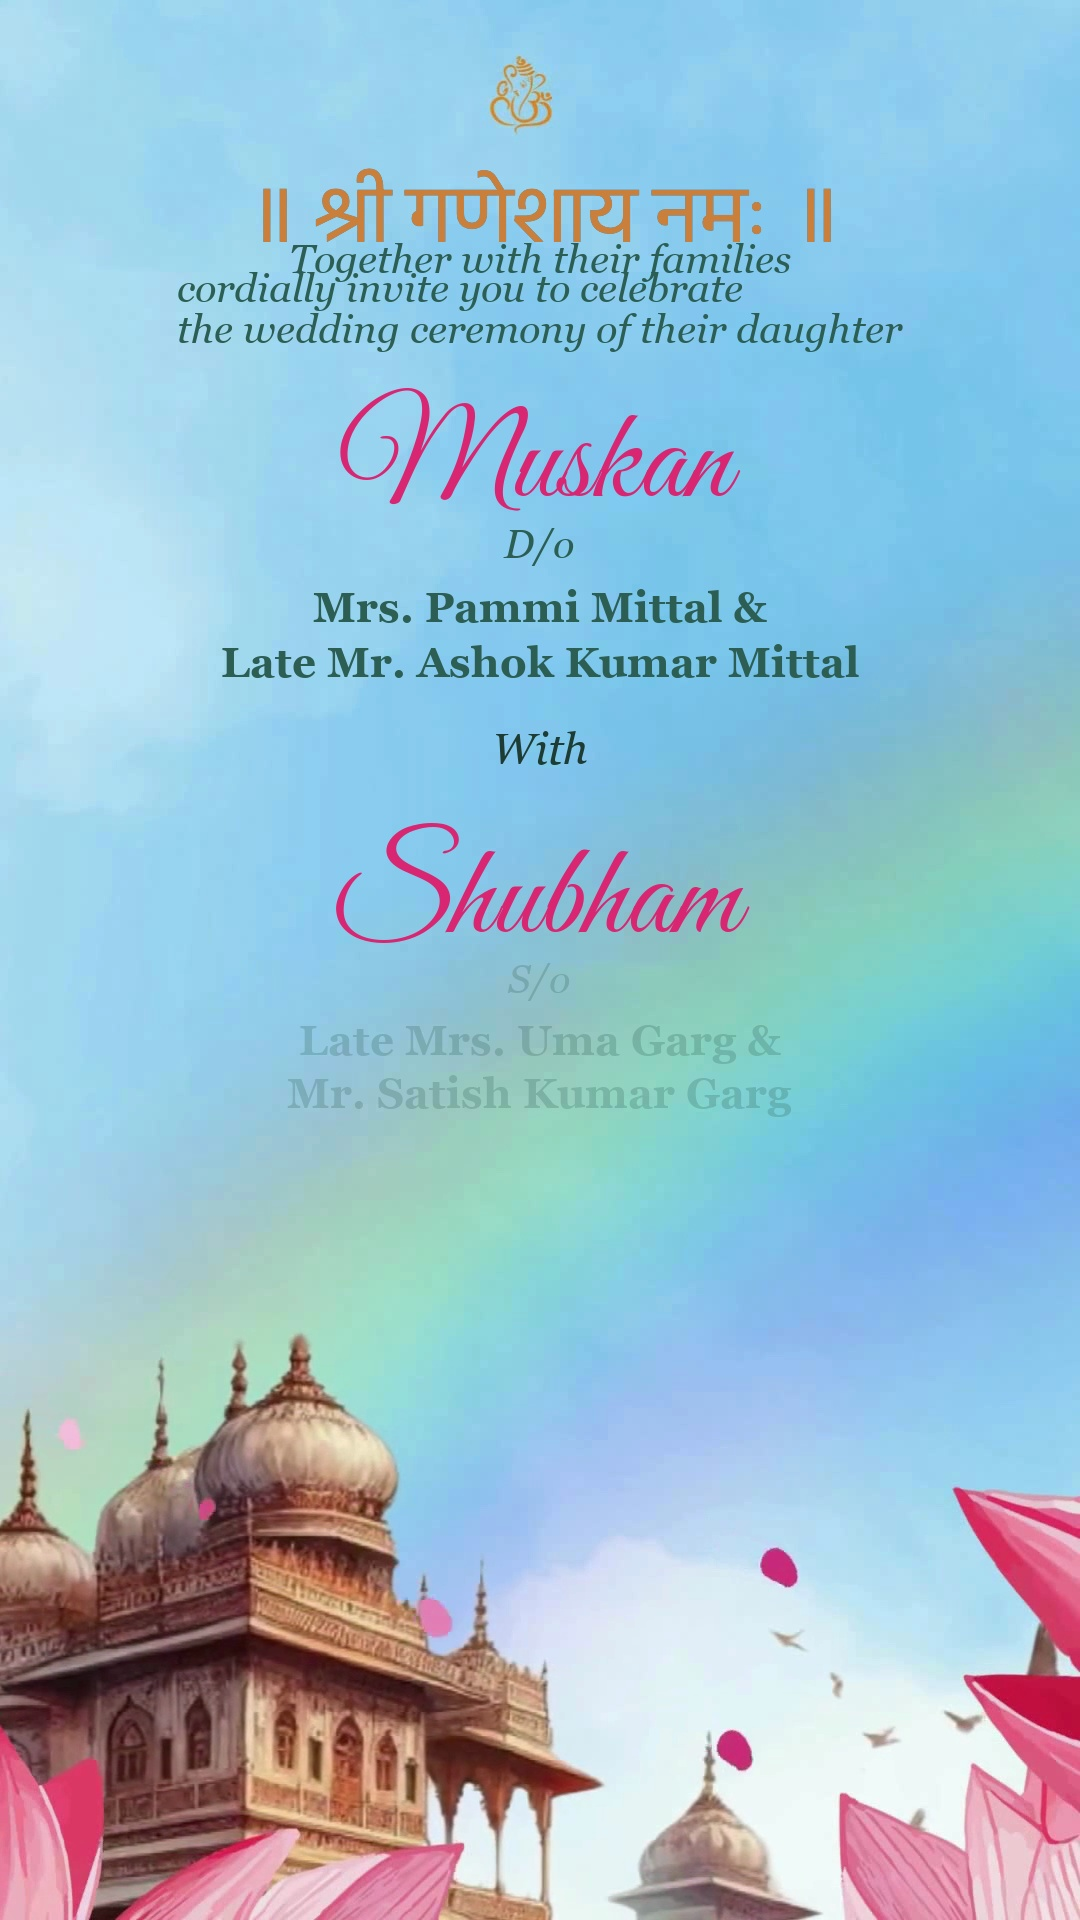
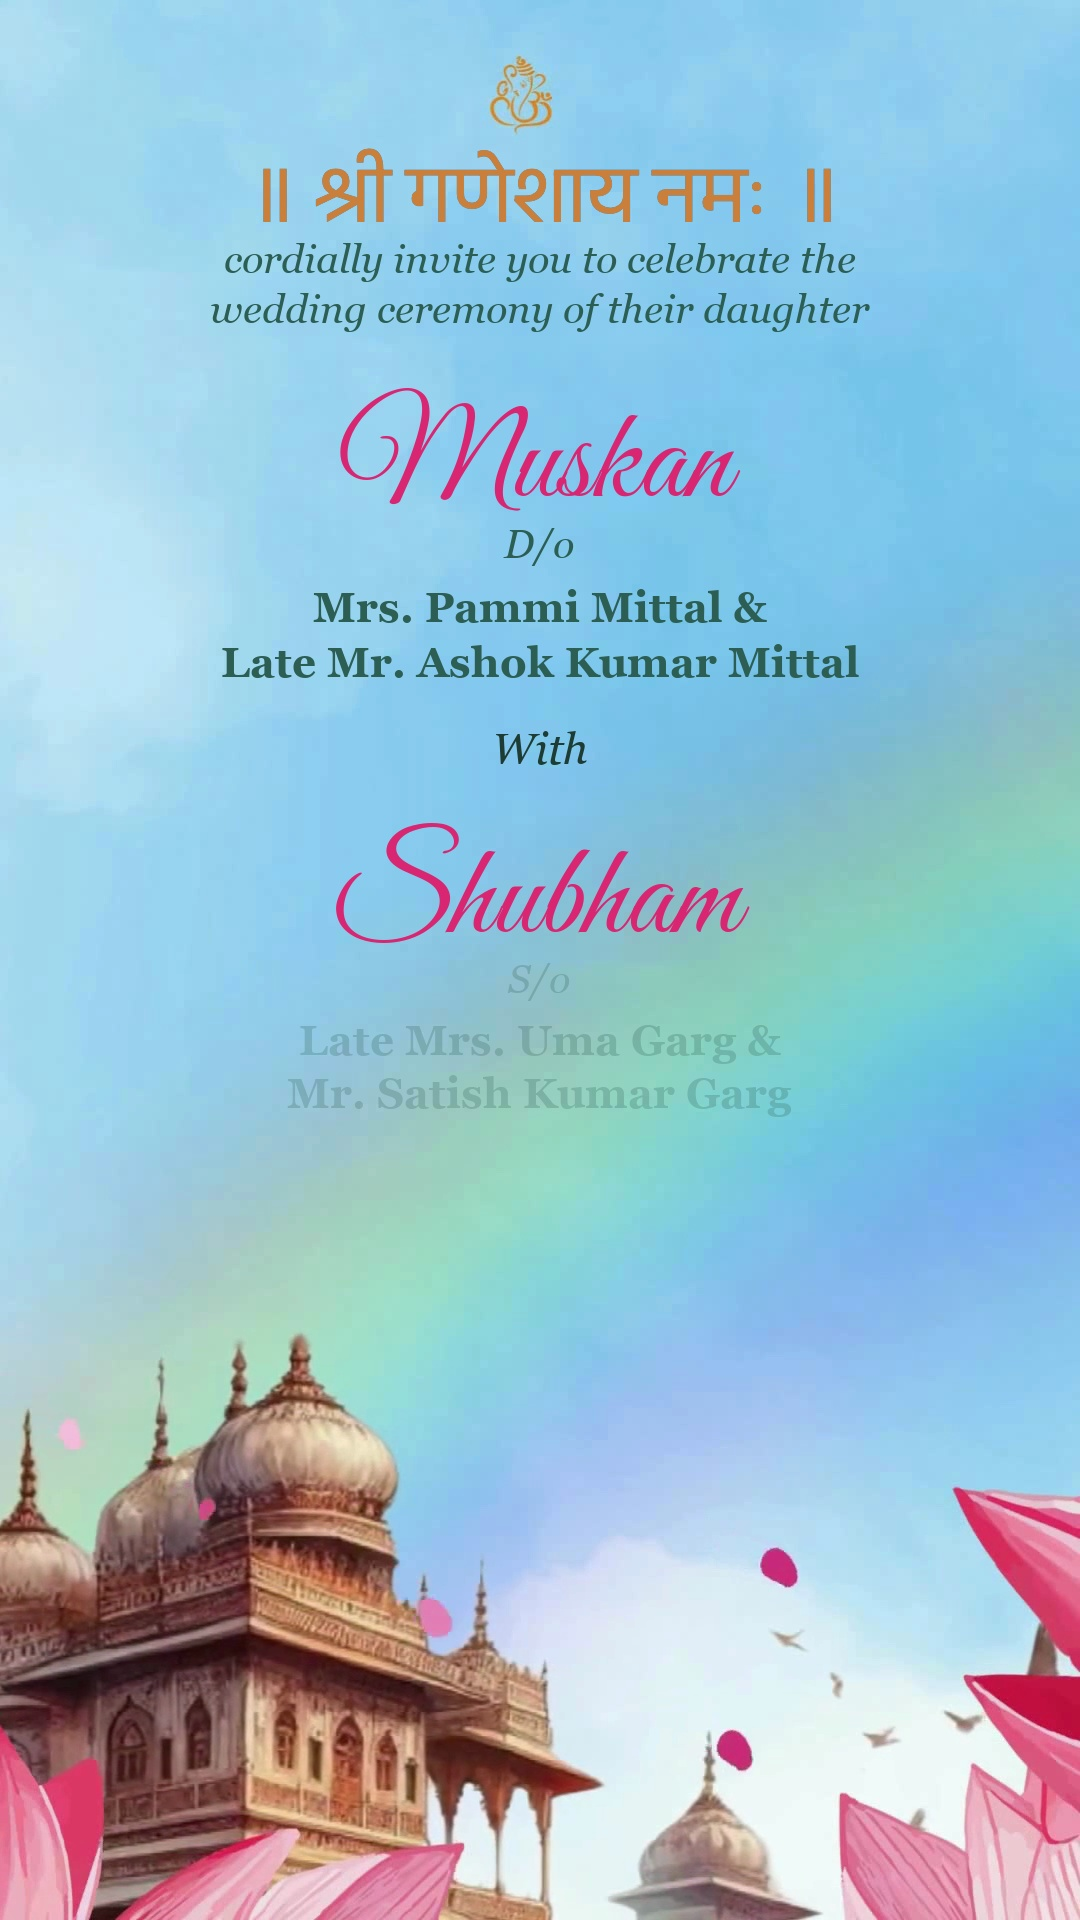
Fix Scene 4 clutter, multiline centering, and absent field handling in template mapping

Changed region(s): [[0.1528, 0.0625, 0.825, 0.1875]]

diff --git a/render_video.py b/render_video.py
@@ -43,25 +43,59 @@ def load_fonts():
         'georgia_bold_52': ImageFont.truetype(os.path.join(FONTS_DIR, 'Georgia Bold.ttf'), 52),
     }
 
-def draw_centered(draw, text, cy, font, fill_rgba, stroke_rgba=None, stroke_width=0, max_width=940):
+def draw_centered(draw, text, cy, font, fill_rgba, stroke_rgba=None, stroke_width=0, max_width=940, line_spacing=None):
     if not text:
         return
-    bbox = draw.textbbox((0, 0), text, font=font)
-    w = bbox[2] - bbox[0]
-    h = bbox[3] - bbox[1]
-    if max_width and w > max_width:
-        scale = max_width / w
-        new_size = max(18, int(font.size * scale))
-        try:
-            font = ImageFont.truetype(font.path, new_size)
-            bbox = draw.textbbox((0, 0), text, font=font)
-            w = bbox[2] - bbox[0]
-            h = bbox[3] - bbox[1]
-        except Exception:
-            pass
-    x = (1080 - w) // 2
-    y = cy - h // 2
-    draw.text((x, y), text, font=font, fill=fill_rgba, stroke_fill=stroke_rgba, stroke_width=stroke_width)
+    lines = [l.strip() for l in str(text).split('\n') if l.strip()]
+    if not lines:
+        return
+
+    cur_font = font
+    if len(lines) == 1:
+        line = lines[0]
+        bbox = draw.textbbox((0, 0), line, font=cur_font)
+        w = bbox[2] - bbox[0]
+        h = bbox[3] - bbox[1]
+        if max_width and w > max_width:
+            scale = max_width / w
+            new_size = max(18, int(cur_font.size * scale))
+            try:
+                cur_font = ImageFont.truetype(cur_font.path, new_size)
+                bbox = draw.textbbox((0, 0), line, font=cur_font)
+                w = bbox[2] - bbox[0]
+                h = bbox[3] - bbox[1]
+            except Exception:
+                pass
+        x = (1080 - w) // 2
+        y = cy - h // 2
+        draw.text((x, y), line, font=cur_font, fill=fill_rgba, stroke_fill=stroke_rgba, stroke_width=stroke_width)
+        return
+
+    # Multiline handling:
+    if max_width:
+        max_line_w = 0
+        for line in lines:
+            bb = draw.textbbox((0, 0), line, font=cur_font)
+            max_line_w = max(max_line_w, bb[2] - bb[0])
+        if max_line_w > max_width:
+            scale = max_width / max_line_w
+            new_size = max(18, int(cur_font.size * scale))
+            try:
+                cur_font = ImageFont.truetype(cur_font.path, new_size)
+            except Exception:
+                pass
+
+    step = line_spacing if line_spacing is not None else int(cur_font.size * 1.25)
+    total_h = (len(lines) - 1) * step
+    start_y = cy - total_h // 2
+
+    for i, line in enumerate(lines):
+        bb = draw.textbbox((0, 0), line, font=cur_font)
+        lw = bb[2] - bb[0]
+        lh = bb[3] - bb[1]
+        lx = (1080 - lw) // 2
+        ly = start_y + i * step - lh // 2
+        draw.text((lx, ly), line, font=cur_font, fill=fill_rgba, stroke_fill=stroke_rgba, stroke_width=stroke_width)
 
 def draw_ornament_divider(draw, cy, color_rgba):
     # Elegant vector divider with diamonds and lines
@@ -115,11 +149,24 @@ def render_frame_text(base_bgr, frame_idx, config, fonts, shloka_img=None):
             r, g, b, a = sh_alpha.split()
             a = a.point(lambda p: int(p * a1 / 255.0))
             sh_alpha.putalpha(a)
-            overlay.paste(sh_alpha, ((1080 - sw) // 2, 160), sh_alpha)
+            overlay.paste(sh_alpha, ((1080 - sw) // 2, 140), sh_alpha)
         else:
-            draw_centered(draw, c4.get('shloka', '॥ श्री गणेशाय नमः ॥'), 180, fonts['rozha_42'], (214, 123, 39, a1))
-        draw_centered(draw, c4.get('header_line1', ''), 255, fonts['georgia_italic_40'], (44, 94, 84, a1))
-        draw_centered(draw, c4.get('header_line2', ''), 305, fonts['georgia_italic_40'], (44, 94, 84, a1), max_width=960)
+            draw_centered(draw, c4.get('shloka', '॥ श्री गणेशाय नमः ॥'), 160, fonts['rozha_42'], (214, 123, 39, a1))
+
+        h1 = (c4.get('header_line1') or '').strip()
+        h2 = (c4.get('header_line2') or '').strip()
+        if h1 and h2:
+            h2_lines = [l for l in h2.split('\n') if l.strip()]
+            if len(h2_lines) > 1:
+                draw_centered(draw, h1, 240, fonts['georgia_italic_40'], (44, 94, 84, a1), max_width=960)
+                draw_centered(draw, h2, 315, fonts['georgia_italic_40'], (44, 94, 84, a1), max_width=960)
+            else:
+                draw_centered(draw, h1, 255, fonts['georgia_italic_40'], (44, 94, 84, a1), max_width=960)
+                draw_centered(draw, h2, 305, fonts['georgia_italic_40'], (44, 94, 84, a1), max_width=960)
+        elif h1:
+            draw_centered(draw, h1, 275, fonts['georgia_italic_40'], (44, 94, 84, a1), max_width=960)
+        elif h2:
+            draw_centered(draw, h2, 280, fonts['georgia_italic_40'], (44, 94, 84, a1), max_width=960)
         
         has_parents = (
             c4.get('bride_parents_line1') or c4.get('groom_parents_line1')
@@ -443,89 +490,91 @@ def template_to_wedding_config(template_data):
         for f in sc.get('fields', []):
             field_map[f['id']] = f.get('value', '')
 
-    if 's2_initials' in field_map:
-        cfg.setdefault('scene_2_monogram', {})['initials'] = field_map['s2_initials']
+    seen_scene_ids = {sc.get('scene_id') for sc in template_data.get('scenes', [])}
 
-    if 's3_names' in field_map:
+    if 'scene_2' in seen_scene_ids or 's2_initials' in field_map:
+        cfg.setdefault('scene_2_monogram', {})['initials'] = field_map.get('s2_initials', '')
+
+    if 'scene_3' in seen_scene_ids or 's3_names' in field_map:
         s3 = cfg.setdefault('scene_3_announcement', {})
-        s3['monogram'] = field_map.get('s3_monogram', s3.get('monogram', 'SM'))
-        s3['couple_names'] = field_map['s3_names']
-        s3['subtext'] = field_map.get('s3_subtext', s3.get('subtext', 'are getting married on ..'))
-        s3['date'] = field_map.get('s3_date', s3.get('date', '21st September 2026'))
+        s3['monogram'] = field_map.get('s3_monogram', '')
+        s3['couple_names'] = field_map.get('s3_names', '')
+        s3['subtext'] = field_map.get('s3_subtext', '')
+        s3['date'] = field_map.get('s3_date', '')
 
-    if 's4_bride' in field_map or 's4_groom' in field_map:
+    if 'scene_4' in seen_scene_ids or 's4_bride' in field_map or 's4_groom' in field_map or 's4_header2' in field_map:
         s4 = cfg.setdefault('scene_4_invitation', {})
-        if 's4_shloka' in field_map: s4['shloka'] = field_map['s4_shloka']
-        if 's4_header1' in field_map: s4['header_line1'] = field_map['s4_header1']
-        if 's4_header2' in field_map: s4['header_line2'] = field_map['s4_header2']
-        if 's4_bride' in field_map: s4['bride_name'] = field_map['s4_bride']
-        if 's4_bride_parents_rel' in field_map: s4['bride_parents_relation'] = field_map['s4_bride_parents_rel']
-        if 's4_bride_parents1' in field_map: s4['bride_parents_line1'] = field_map['s4_bride_parents1']
-        if 's4_bride_parents2' in field_map: s4['bride_parents_line2'] = field_map['s4_bride_parents2']
-        if 's4_with' in field_map: s4['conjunction'] = field_map['s4_with']
-        if 's4_groom' in field_map: s4['groom_name'] = field_map['s4_groom']
-        if 's4_groom_parents_rel' in field_map: s4['groom_parents_relation'] = field_map['s4_groom_parents_rel']
-        if 's4_groom_parents1' in field_map: s4['groom_parents_line1'] = field_map['s4_groom_parents1']
-        if 's4_groom_parents2' in field_map: s4['groom_parents_line2'] = field_map['s4_groom_parents2']
-        if 's4_res_label' in field_map: s4['residence_label'] = field_map['s4_res_label']
-        if 's4_addr1' in field_map: s4['address_line1'] = field_map['s4_addr1']
-        if 's4_addr2' in field_map: s4['address_line2'] = field_map['s4_addr2']
+        s4['shloka'] = field_map.get('s4_shloka', '')
+        s4['header_line1'] = field_map.get('s4_header1', '')
+        s4['header_line2'] = field_map.get('s4_header2', '')
+        s4['bride_name'] = field_map.get('s4_bride', '')
+        s4['bride_parents_relation'] = field_map.get('s4_bride_parents_rel', '')
+        s4['bride_parents_line1'] = field_map.get('s4_bride_parents1', '')
+        s4['bride_parents_line2'] = field_map.get('s4_bride_parents2', '')
+        s4['conjunction'] = field_map.get('s4_with', '')
+        s4['groom_name'] = field_map.get('s4_groom', '')
+        s4['groom_parents_relation'] = field_map.get('s4_groom_parents_rel', '')
+        s4['groom_parents_line1'] = field_map.get('s4_groom_parents1', '')
+        s4['groom_parents_line2'] = field_map.get('s4_groom_parents2', '')
+        s4['residence_label'] = field_map.get('s4_res_label', '')
+        s4['address_line1'] = field_map.get('s4_addr1', '')
+        s4['address_line2'] = field_map.get('s4_addr2', '')
 
-    if 's5_title' in field_map or 's5_date' in field_map:
+    if 'scene_5' in seen_scene_ids or 's5_title' in field_map or 's5_date' in field_map:
         s5 = cfg.setdefault('scene_5_haldi', {})
-        if 's5_header' in field_map: s5['header'] = field_map['s5_header']
-        if 's5_title' in field_map: s5['title'] = field_map['s5_title']
-        if 's5_date' in field_map: s5['date'] = field_map['s5_date']
-        if 's5_time' in field_map: s5['time'] = field_map['s5_time']
-        if 's5_venue_label' in field_map: s5['venue_label'] = field_map['s5_venue_label']
-        if 's5_venue_name' in field_map: s5['venue_name'] = field_map['s5_venue_name']
-        if 's5_addr1' in field_map: s5['address_line1'] = field_map['s5_addr1']
-        if 's5_addr2' in field_map: s5['address_line2'] = field_map['s5_addr2']
+        s5['header'] = field_map.get('s5_header', '')
+        s5['title'] = field_map.get('s5_title', '')
+        s5['date'] = field_map.get('s5_date', '')
+        s5['time'] = field_map.get('s5_time', '')
+        s5['venue_label'] = field_map.get('s5_venue_label', '')
+        s5['venue_name'] = field_map.get('s5_venue_name', '')
+        s5['address_line1'] = field_map.get('s5_addr1', '')
+        s5['address_line2'] = field_map.get('s5_addr2', '')
 
-    if 's6_bride' in field_map or 's6_date' in field_map:
+    if 'scene_6' in seen_scene_ids or 's6_bride' in field_map or 's6_date' in field_map:
         s6 = cfg.setdefault('scene_6_mehendi', {})
-        if 's6_header' in field_map: s6['header'] = field_map['s6_header']
-        if 's6_title' in field_map: s6['title_line1'] = field_map['s6_title']
-        if 's6_bride' in field_map: s6['bride_name'] = field_map['s6_bride']
-        if 's6_date' in field_map: s6['date'] = field_map['s6_date']
-        if 's6_time' in field_map: s6['time'] = field_map['s6_time']
-        if 's6_venue' in field_map: s6['venue_name'] = field_map['s6_venue']
-        if 's6_addr1' in field_map: s6['address_line1'] = field_map['s6_addr1']
-        if 's6_addr2' in field_map: s6['address_line2'] = field_map['s6_addr2']
+        s6['header'] = field_map.get('s6_header', '')
+        s6['title_line1'] = field_map.get('s6_title', '')
+        s6['bride_name'] = field_map.get('s6_bride', '')
+        s6['date'] = field_map.get('s6_date', '')
+        s6['time'] = field_map.get('s6_time', '')
+        s6['venue_name'] = field_map.get('s6_venue', '')
+        s6['address_line1'] = field_map.get('s6_addr1', '')
+        s6['address_line2'] = field_map.get('s6_addr2', '')
 
-    if 's7_hindi' in field_map or 's7_date_time' in field_map:
+    if 'scene_7' in seen_scene_ids or 's7_hindi' in field_map or 's7_date_time' in field_map:
         s7 = cfg.setdefault('scene_7_sangeet', {})
-        if 's7_header1' in field_map: s7['header_line1'] = field_map['s7_header1']
-        if 's7_header2' in field_map: s7['header_line2'] = field_map['s7_header2']
-        if 's7_hindi' in field_map: s7['event_name_hindi'] = field_map['s7_hindi']
-        if 's7_sub' in field_map: s7['sub_header'] = field_map['s7_sub']
-        if 's7_bride' in field_map: s7['bride_name'] = field_map['s7_bride']
-        if 's7_date_time' in field_map: s7['date'] = field_map['s7_date_time']
-        if 's7_venue1' in field_map: s7['venue_label'] = field_map['s7_venue1']
-        if 's7_venue2' in field_map: s7['venue_name'] = field_map['s7_venue2']
+        s7['header_line1'] = field_map.get('s7_header1', '')
+        s7['header_line2'] = field_map.get('s7_header2', '')
+        s7['event_name_hindi'] = field_map.get('s7_hindi', '')
+        s7['sub_header'] = field_map.get('s7_sub', '')
+        s7['bride_name'] = field_map.get('s7_bride', '')
+        s7['date'] = field_map.get('s7_date_time', '')
+        s7['venue_label'] = field_map.get('s7_venue1', '')
+        s7['venue_name'] = field_map.get('s7_venue2', '')
 
-    if 's8_mandha_title' in field_map or 's8_wedding_title' in field_map:
+    if 'scene_8' in seen_scene_ids or 's8_mandha_title' in field_map:
         s8 = cfg.setdefault('scene_8_mandha', {})
-        if 's8_mandha_title' in field_map: s8['title'] = field_map['s8_mandha_title']
-        if 's8_date_header' in field_map: s8['date'] = field_map['s8_date_header']
-        if 's8_mandha_time' in field_map: s8['time'] = field_map['s8_mandha_time']
-        if 's8_mandha_v1' in field_map: s8['venue_name'] = field_map['s8_mandha_v1']
-        if 's8_mandha_v2' in field_map: s8['address'] = field_map['s8_mandha_v2']
+        s8['title'] = field_map.get('s8_mandha_title', '')
+        s8['date'] = field_map.get('s8_date_header', '')
+        s8['time'] = field_map.get('s8_mandha_time', '')
+        s8['venue_name'] = field_map.get('s8_mandha_v1', '')
+        s8['address'] = field_map.get('s8_mandha_v2', '')
 
+    if 'scene_9' in seen_scene_ids or 's8_wedding_title' in field_map:
         s9 = cfg.setdefault('scene_9_wedding', {})
-        if 's8_wedding_title' in field_map: s9['title'] = field_map['s8_wedding_title']
-        if 's9_wedding_date' in field_map: s9['date'] = field_map['s9_wedding_date']
-        elif 's8_date_header' in field_map: s9['date'] = field_map['s8_date_header']
-        if 's8_wedding_time' in field_map: s9['time'] = field_map['s8_wedding_time']
-        if 's8_wedding_v1' in field_map: s9['venue_name'] = field_map['s8_wedding_v1']
-        if 's8_wedding_v2' in field_map: s9['address'] = field_map['s8_wedding_v2']
+        s9['title'] = field_map.get('s8_wedding_title', '')
+        s9['date'] = field_map.get('s9_wedding_date', field_map.get('s8_date_header', ''))
+        s9['time'] = field_map.get('s8_wedding_time', '')
+        s9['venue_name'] = field_map.get('s8_wedding_v1', '')
+        s9['address'] = field_map.get('s8_wedding_v2', '')
 
-    if 's9_title' in field_map or 's9_date' in field_map or 's10_rsvp_label' in field_map:
+    if 'scene_10' in seen_scene_ids or 's9_title' in field_map or 's10_rsvp_label' in field_map:
         s10 = cfg.setdefault('scene_10_closing', {})
-        if 's9_title' in field_map: s10['title'] = field_map['s9_title']
-        if 's9_date' in field_map: s10['date'] = field_map['s9_date']
-        if 's10_rsvp_label' in field_map: s10['rsvp_label'] = field_map['s10_rsvp_label']
-        if 's10_rsvp_text' in field_map: s10['rsvp_text'] = field_map['s10_rsvp_text']
+        s10['title'] = field_map.get('s9_title', '')
+        s10['date'] = field_map.get('s9_date', '')
+        s10['rsvp_label'] = field_map.get('s10_rsvp_label', '')
+        s10['rsvp_text'] = field_map.get('s10_rsvp_text', '')
 
     return cfg
 
@@ -565,16 +614,6 @@ def render_wedding_frame(base_bgr, frame_idx, template_data):
     shloka_text = cfg.get('scene_4_invitation', {}).get('shloka', '')
     shloka_img = get_shloka_image(shloka_text)
     return render_frame_text(base_bgr, frame_idx, cfg, fonts, shloka_img=shloka_img)
-
-def render_wedding_video_from_template(template_data, clean_video, output_file, num_workers=None):
-    if num_workers is None:
-        num_workers = min(8, mp.cpu_count() or 4)
-
-    cfg = template_to_wedding_config(template_data)
-    tmp_config_path = os.path.join(SCRIPT_DIR, 'tmp_render', 'active_wedding_config.json')
-    os.makedirs(os.path.join(SCRIPT_DIR, 'tmp_render'), exist_ok=True)
-    with open(tmp_config_path, 'w', encoding='utf-8') as f:
-        json.dump(cfg, f, indent=2, ensure_ascii=False)
 
 def render_wedding_video_from_template(template_data, clean_video, output_file, num_workers=None, progress_callback=None):
     cfg = template_to_wedding_config(template_data)
